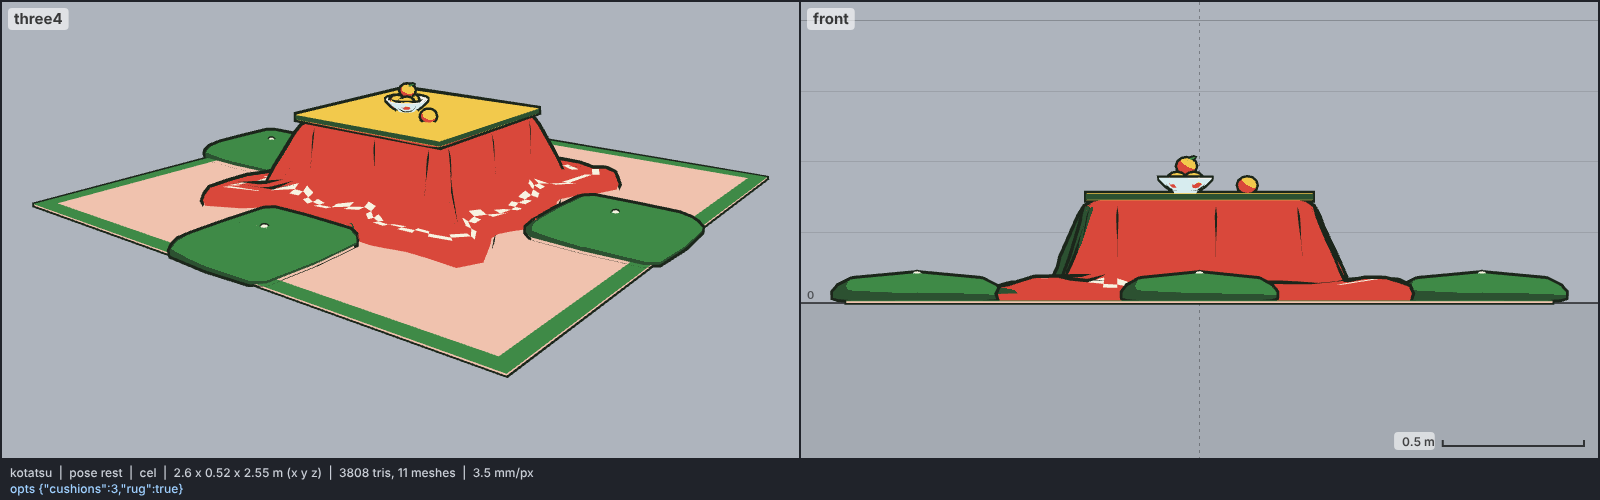
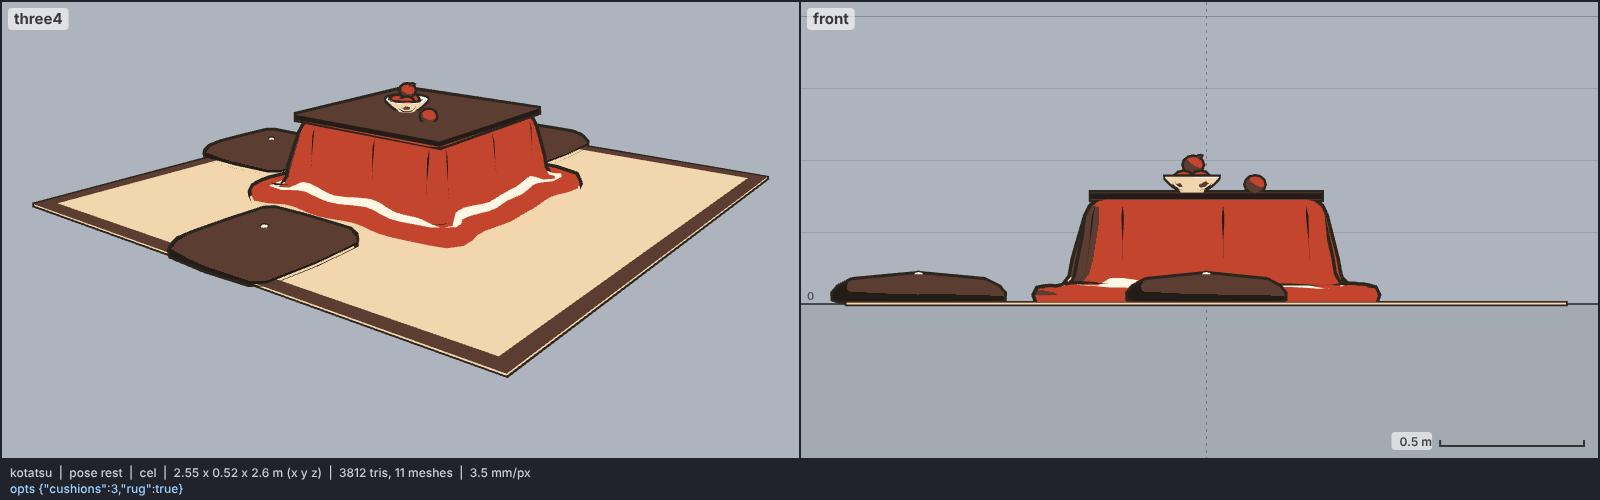
models: kotatsu on noon, heavier quilt, solid border stripe
Warm wood plate and a brown-shaded red quilt (red or cream); the drape
settles 0.2 m past the plate with gentler folds; the check band becomes
a clean border stripe; cushions fill opposite sides first.

Claude-Session: https://claude.ai/code/session_01RarBCdt4E1fNHHaUKaW5GL

diff --git a/models/kotatsu.js b/models/kotatsu.js
@@ -6,58 +6,58 @@
 //   QUILT    the kakebuton is ONE indexed ring grid around the frame, not a box. Each column starts on the frame's
 //            rounded-square edge (sides: the point slides along the edge; corners: it stays on the corner and its
 //            outward direction fans through 90 deg), and runs out along a drape profile integrated from its heading:
-//            flat under the top plate, a 6 cm bend over the frame edge, a drop splayed 13 deg out, a 10 cm fillet onto
-//            the floor and a run across it to the hem. Rows sit at fixed arc lengths near the top and at fixed
-//            distances from the hem below, so the pattern band follows the cloth. Soft folds: an outward offset of the
-//            drop and the floor run, a sum of three perimeter sines (3-4 folds a side, the corners pushed out into soft
-//            cones), growing from 0 at the edge; the floor run puffs up where a fold bulges. The hem line wanders (two
-//            more sines) and the corners hang 14 cm longer and spill onto the floor. A rounded rim 4.5 cm thick closes
-//            the hem down to y = 0 and a fan closes the floor, so the quilt is one closed shell with one hull; winding
-//            from the signed volume. Material groups: field (two tones, threshold 0.1 so the drop facing the camera
-//            stays lit), an ichimatsu check band 8-15 cm from the hem, and the hem rim + floor in flat field colour
-//            (they face down, and the shade tone there read as a dark slab). The hull draws only silhouettes, so the
-//            folds also get creases: tapered ink strokes 3 mm proud down the drop at every fold valley.
-//   TABLE    the top plate (0.80 x 0.80 x 0.025) rests on the quilt, a dark edge band 3 mm proud on its four sides.
+//            flat under the top plate, a 6 cm bend over the frame edge, a drop splayed 10 deg out, a tight 6 cm
+//            fillet onto the floor and a short run across it to the hem, so it reads as a heavy quilt resting on the
+//            floor. Rows sit at fixed arc lengths near the top and at fixed distances from the hem below, so the border
+//            stripe follows the cloth. Soft folds: an outward offset of the drop (and, at half strength, the floor run),
+//            a sum of three perimeter sines (3-4 folds a side, the corners pushed out into soft cones), growing from 0
+//            at the edge; the floor run puffs up a little where a fold bulges. The hem wanders by ~1 cm and the corners
+//            hang 7 cm longer. A rounded rim 4.5 cm thick closes the hem down to y = 0 and a fan closes the floor, so
+//            the quilt is one closed shell with one hull; winding from the signed volume. Material groups: field (two
+//            tones, threshold 0.1 so the drop facing the camera stays lit), a solid border stripe 7.5-12 cm from the
+//            hem, and the hem rim + floor in flat field colour (they face down; the shade tone there read as a slab).
+//            The hull draws only silhouettes, so the folds also get creases: tapered dark strokes 3 mm proud down the
+//            drop at every fold valley.
+//   TABLE    the top plate (0.80 x 0.80 x 0.025) rests on the quilt, a darker edge band 3 mm proud on its four sides.
 //            The frame and legs are all under the quilt, so they are not built.
 //   OPTIONS  mikan: a white bowl (closed lathe) with four oblate mandarins, one more loose on the plate, and a leaf.
 //            cushions: 0..4 zabuton, domed superellipsoid pillows with a centre tassel, just past the hem on the +Z,
-//            -X, +X, -Z sides in that order. rug: a 2.5 m square floor rug with a border; the rest of the
-//            set rides 9 mm up on it (top 0.517, inside the lab's 2 % height check).
+//            -Z, -X, +X sides in that order (so two face each other). rug: a 2.5 m square floor rug with a border;
+//            the rest of the set rides 9 mm up on it.
 // Proportions (real size, base unit the frame half width T = 0.35 m): top plate top 0.38, quilt surface on the frame
-//   0.355, hang 0.50 (+0.14 at the corners), hem 0.62-0.72 from the centre on the sides, ~0.8 at the corners;
-//   zabuton 0.55 x 0.60, 0.10 at the dome; mikan r 0.034 (oblate 0.82); the pile tops out at 0.508.
-// Options: build(THREE, kit, colors, { quilt: "red" | "blue" | "green", mikan = true, cushions = 0, rug = false, height }).
-//   height scales the whole set so its top is `height` (default: the natural top, 0.508 with mikan, 0.38 without, so
-//   the lab's meta.height check warns for mikan: false).
+//   0.355, hang 0.44 (+0.07 at the corners), hem ~0.6 from the centre on the sides (0.2 past the plate edge), the
+//   corners rounding out to a 1.2 m footprint; zabuton 0.55 x 0.60, 0.10 at the dome; mikan r 0.034 (oblate 0.82); the pile
+//   tops out at 0.508.
+// Options: build(THREE, kit, colors, { quilt: "red" | "cream", mikan = true, cushions = 0, rug = false, height }).
+//   height scales the whole set so its top is `height` (default: the natural top, 0.508 with mikan, 0.38 without).
 // Budget: quilt 2.3k triangles, creases 0.1k, plate 60, mikan set 0.74k; each zabuton 0.16k; rug 60.
 //   Defaults 3.2k, every option on 4.0k.
-// Colours (meadow, a day-lit winter room; one script has a red, a green and a pale blue): quilt red accent #d9483b /
-//   hair #2c5131, blue sky #d7ecef / line #a9d16e, green iris #3f8a47 / hair; check band moon #f7f3e1 / sky (on blue:
-//   iris / hair); creases ink #1c261b; plate wood practical #f2c94c / skin #f0c2ae with a hair edge band (flat);
-//   mikan practical / accent; leaf iris / hair; bowl sclera #f6f3ee / sky; zabuton iris / hair (accent / hair under a
-//   green quilt), tassel moon / sky; rug skin / moon with an iris border. meadow has no browns, so the table is
-//   honey-yellow wood, and the red quilt's shade is the dark green hair (it shows only on the far -X side).
+// Colours (noon, warm wood): quilt red accent #c4452d / iris #5c3d32 with a moon #fff6e4 / sky #f2d7ae stripe, or
+//   cream moon / sky with an accent / iris stripe; creases hair #241c16; plate wood iris / hair with a hair edge
+//   band (flat); mikan accent / iris (noon has no orange), leaf iris / hair; bowl sclera #f6f3ee / sky; zabuton
+//   iris / hair (accent / iris under the cream quilt), tassel moon / sky; rug sky / skin #f0c2ae with an iris border.
+//   noon has no blue or green, so the quilt colours are red and cream. hair is darker than ink and is used only for
+//   thin lines (creases, edge band) and shade, as the house does.
 
 export const meta = {
   name: "kotatsu",
   height: 0.508,
-  script: "meadow",
+  script: "noon",
   colors: {
-    quiltRed: "#d9483b", quiltRedShade: "#2c5131",
-    quiltBlue: "#d7ecef", quiltBlueShade: "#a9d16e",
-    quiltGreen: "#3f8a47", quiltGreenShade: "#2c5131",
-    band: "#f7f3e1", bandShade: "#d7ecef",
-    bandDark: "#3f8a47", bandDarkShade: "#2c5131",
-    wood: "#f2c94c", woodShade: "#f0c2ae",
-    edge: "#2c5131",
-    crease: "#1c261b",
-    mikan: "#f2c94c", mikanShade: "#d9483b",
-    leaf: "#3f8a47", leafShade: "#2c5131",
-    bowl: "#f6f3ee", bowlShade: "#d7ecef",
-    cushion: "#3f8a47", cushionShade: "#2c5131",
-    cushionAlt: "#d9483b", cushionAltShade: "#2c5131",
-    rug: "#f0c2ae", rugShade: "#f7f3e1",
-    rugBorder: "#3f8a47",
+    quiltRed: "#c4452d", quiltRedShade: "#5c3d32",
+    quiltCream: "#fff6e4", quiltCreamShade: "#f2d7ae",
+    band: "#fff6e4", bandShade: "#f2d7ae",
+    bandRed: "#c4452d", bandRedShade: "#5c3d32",
+    wood: "#5c3d32", woodShade: "#241c16",
+    edge: "#241c16",
+    crease: "#241c16",
+    mikan: "#c4452d", mikanShade: "#5c3d32",
+    leaf: "#5c3d32", leafShade: "#241c16",
+    bowl: "#f6f3ee", bowlShade: "#f2d7ae",
+    cushion: "#5c3d32", cushionShade: "#241c16",
+    cushionAlt: "#c4452d", cushionAltShade: "#5c3d32",
+    rug: "#f2d7ae", rugShade: "#f0c2ae",
+    rugBorder: "#5c3d32",
   },
   poses: ["rest"],
 };
@@ -82,7 +82,7 @@ export function build(THREE, kit, colors = meta.colors, opts = {}) {
   const TAU = Math.PI * 2;
 
   // ---------- the drape profile: arc length s -> (outward h, y, on-floor weight) ----------
-  const T = 0.35, R0 = 0.03, Y0 = 0.355, TH = 0.045, BEND = 0.06, SPLAY = 0.22, FILLET = 0.1;
+  const T = 0.35, R0 = 0.03, Y0 = 0.355, TH = 0.045, BEND = 0.06, SPLAY = 0.18, FILLET = 0.06;
   const prof = []; // every 2 mm
   {
     let h = 0, y = Y0, a = 0, phase = 0, hF = 0; // a: heading below horizontal; hF: where the run starts
@@ -133,29 +133,29 @@ export function build(THREE, kit, colors = meta.colors, opts = {}) {
     const tot = len.reduce((a, b) => a + b, 0);
     cols.forEach((col, j) => { col.phi = (acc + len[j] / 2) / tot; acc += len[j]; });
   }
-  const fold = (phi) => 0.65 * Math.sin(TAU * 13 * phi + 0.7) + 0.35 * Math.sin(TAU * 6 * phi + 2.1) + 0.2 * Math.sin(TAU * 21 * phi + 4.0);
+  const fold = (phi) => 0.65 * Math.sin(TAU * 13 * phi + 0.7) + 0.3 * Math.sin(TAU * 6 * phi + 2.1) + 0.15 * Math.sin(TAU * 21 * phi + 4.0);
   for (const col of cols) {
     col.wcp = Math.max(0, col.wc) ** 1.5;
-    col.smax = 0.5 + 0.14 * col.wcp + 0.03 * Math.sin(TAU * 11 * col.phi + 1.3) + 0.02 * Math.sin(TAU * 5 * col.phi + 0.4);
-    col.f = fold(col.phi) + 0.9 * col.wcp; // corners bulge out: a soft cone
+    col.smax = 0.44 + 0.07 * col.wcp + 0.01 * Math.sin(TAU * 11 * col.phi + 1.3) + 0.008 * Math.sin(TAU * 5 * col.phi + 0.4);
+    col.f = fold(col.phi) + 0.5 * col.wcp; // corners bulge out: a soft cone
   }
   // rows: absolute arc lengths near the frame, distances from the hem below; the band and piping are rows
   const rowsAt = (sm) => {
     const top = [0, 0.025, 0.055, 0.09, 0.13, 0.18, 0.24];
     const lo = sm - 0.15, mid = [0.24 + (lo - 0.24) / 2];
-    return [...top, ...mid, lo, sm - 0.115, sm - 0.08, sm - 0.045, sm - 0.02, sm];
+    return [...top, ...mid, lo, sm - 0.12, sm - 0.075, sm - 0.045, sm - 0.02, sm];
   };
   const K = rowsAt(0.5).length;
-  const BAND0 = 8, BAND1 = 10; // cell rows [8,10): the check band
+  const BAND = 9; // cell row [9,10): the border stripe, 7.5-12 cm from the hem
   const pos = [];
   const vtx = (x, y, z) => (pos.push(x, y, z), pos.length / 3 - 1);
   const grid = cols.map((col) => {
     const ss = rowsAt(col.smax);
     return ss.map((s) => {
       const [h, y, fl] = P(s);
-      const amp = 0.04 * (1 + 0.5 * col.wcp) * Math.min(1, Math.max(0, s - 0.02) / 0.22);
+      const amp = 0.022 * (1 + 0.5 * col.wcp) * Math.min(1, Math.max(0, s - 0.02) / 0.22) * (1 - 0.45 * fl); // flatter on the floor
       const off = h + R0 + amp * col.f;
-      const lift = fl * 0.02 * Math.max(0, col.f) * Math.min(1, (col.smax - s) / 0.06 + 0.2);
+      const lift = fl * 0.012 * Math.max(0, col.f) * Math.min(1, (col.smax - s) / 0.06 + 0.2);
       return vtx(col.e[0] + col.d[0] * off, y + lift, col.e[1] + col.d[1] * off);
     });
   });
@@ -164,7 +164,7 @@ export function build(THREE, kit, colors = meta.colors, opts = {}) {
   for (let j = 0; j < M; j++) {
     const A = grid[j], B = grid[(j + 1) % M];
     for (let k = 0; k < K - 1; k++) {
-      const g = k >= BAND0 && k < BAND1 && (j + k) % 2 ? 1 : 0; // ichimatsu check band
+      const g = k === BAND ? 1 : 0;
       face(A[k], B[k], B[k + 1], g), face(A[k], B[k + 1], A[k + 1], g);
     }
   }
@@ -201,9 +201,9 @@ export function build(THREE, kit, colors = meta.colors, opts = {}) {
     let start = 0;
     buckets.forEach((b, k) => (g.addGroup(start, b.length, k), (start += b.length)));
     g.computeVertexNormals();
-    const field = { red: [c.quiltRed, c.quiltRedShade], blue: [c.quiltBlue, c.quiltBlueShade], green: [c.quiltGreen, c.quiltGreenShade] }[quilt];
-    if (!field) throw new Error(`unknown quilt "${quilt}" (red, blue, green)`);
-    const band = quilt === "blue" ? [c.bandDark, c.bandDarkShade] : [c.band, c.bandShade];
+    const field = { red: [c.quiltRed, c.quiltRedShade], cream: [c.quiltCream, c.quiltCreamShade] }[quilt];
+    if (!field) throw new Error(`unknown quilt "${quilt}" (red, cream)`);
+    const band = quilt === "cream" ? [c.bandRed, c.bandRedShade] : [c.band, c.bandShade];
     const mesh = kit.toon(g, field[0], field[1], { threshold: 0.1, px: 3.5 });
     mesh.material = [kit.cel(field[0], field[1], { threshold: 0.1 }), kit.cel(band[0], band[1], { threshold: 0.1 }), kit.cel(field[0], field[0])];
     mesh.name = "quilt";
@@ -300,7 +300,7 @@ export function build(THREE, kit, colors = meta.colors, opts = {}) {
     g.computeVertexNormals();
     return g;
   };
-  const SEATS = [[0, 1], [-1, 0], [1, 0], [0, -1]];
+  const SEATS = [[0, 1], [0, -1], [-1, 0], [1, 0]];
   for (let i = 0; i < cushions; i++) {
     const [sx, sz] = SEATS[i], D = 1.0;
     put("cushion", pillow(), mat(sx * D, 0, sz * D, 1, 1, 1, sx ? Math.PI / 2 : 0));
@@ -316,7 +316,7 @@ export function build(THREE, kit, colors = meta.colors, opts = {}) {
     boxAt("rugBorder", -RW, -RW + BW, RT, y1, -RW + BW, RW - BW);
   }
 
-  const cushionPair = quilt === "green" ? [c.cushionAlt, c.cushionAltShade] : [c.cushion, c.cushionShade];
+  const cushionPair = quilt === "cream" ? [c.cushionAlt, c.cushionAltShade] : [c.cushion, c.cushionShade];
   const MAT = {
     wood: [c.wood, c.woodShade, 0.1, 3.5, false],
     edge: [c.edge, c.edge, 0.1, 0, false],
